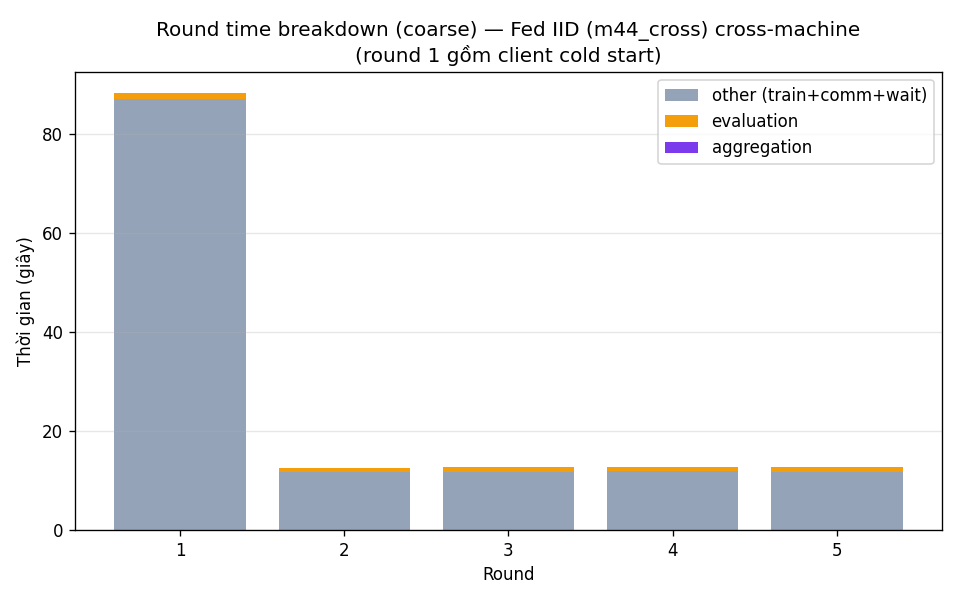
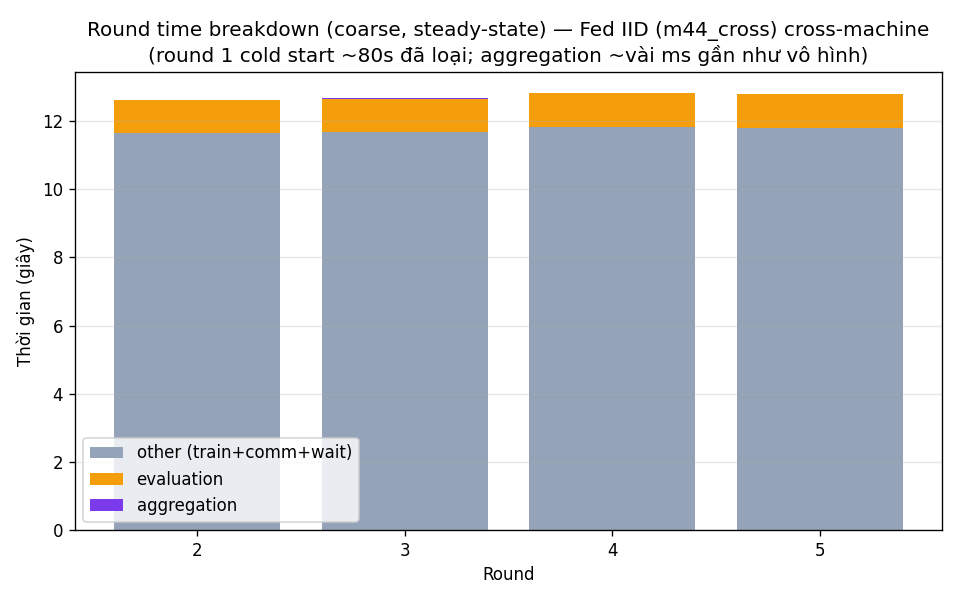
fix(exp): round_time_breakdown loại round 1 cold start để rõ steady-state
m44_cross round 1 = 88s (client cold start) lu mờ breakdown steady-state.
Lọc round >= 2 → thấy rõ: other≈11.7s (train+comm áp đảo), eval≈0.98s,
aggregation≈2.1ms (gần như vô hình). Insight: round time bị chi phối bởi
client compute + communication, KHÔNG phải server-side FedAvg aggregation.
In số liệu steady-state ra stdout cho báo cáo.

diff --git a/analyze.py b/analyze.py
@@ -116,8 +116,11 @@ def plot_round_time_breakdown(timing: pd.DataFrame, label: str) -> None:
     other_round_time_ms = round_wallclock_sec*1000 - agg - eval.
     Tên trung tính: gồm client train + download/upload + polling + wait.
     Chỉ mô tả NORMAL federated timing — fault-timeout phân tích riêng ở Exp 4.
+
+    Loại round 1 (client cold start: Python+torch+MNIST+GPU init ~80s) để thấy
+    rõ breakdown steady-state — round 1 là outlier không đại diện.
     """
-    df = timing.copy()
+    df = timing[timing["round_id"] >= 2].copy()  # bỏ cold-start round 1
     agg = df["aggregation_time_ms"]
     ev = df["eval_time_ms"]
     other = (df["round_wallclock_sec"] * 1000) - agg - ev
@@ -133,7 +136,10 @@ def plot_round_time_breakdown(timing: pd.DataFrame, label: str) -> None:
     )
     ax.set_xlabel("Round")
     ax.set_ylabel("Thời gian (giây)")
-    ax.set_title(f"Round time breakdown (coarse) — {label} cross-machine\n(round 1 gồm client cold start)")
+    ax.set_title(
+        f"Round time breakdown (coarse, steady-state) — {label} cross-machine\n"
+        f"(round 1 cold start ~80s đã loại; aggregation ~vài ms gần như vô hình)"
+    )
     ax.set_xticks(rounds)
     ax.grid(True, axis="y", alpha=0.3)
     ax.legend()
@@ -141,7 +147,11 @@ def plot_round_time_breakdown(timing: pd.DataFrame, label: str) -> None:
     out = FIG_DIR / "round_time_breakdown.png"
     fig.savefig(out, dpi=120)
     plt.close(fig)
-    print(f"  ✓ {out.name}")
+    # In số liệu steady-state để dùng trong báo cáo
+    print(
+        f"  ✓ {out.name}  (steady-state round 2+: other≈{other.mean()/1000:.1f}s, "
+        f"eval≈{ev.mean()/1000:.2f}s, agg≈{agg.mean():.1f}ms)"
+    )
 
 
 # ============================================================
